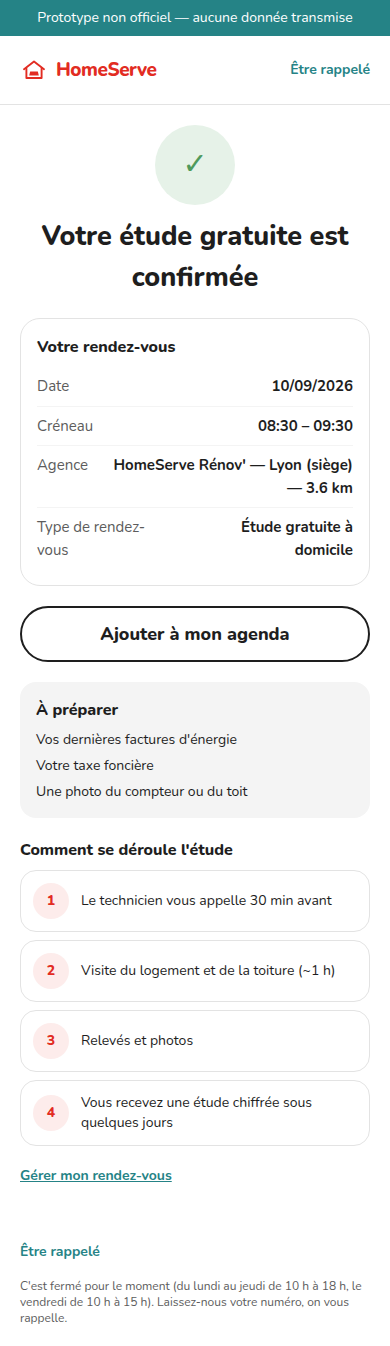
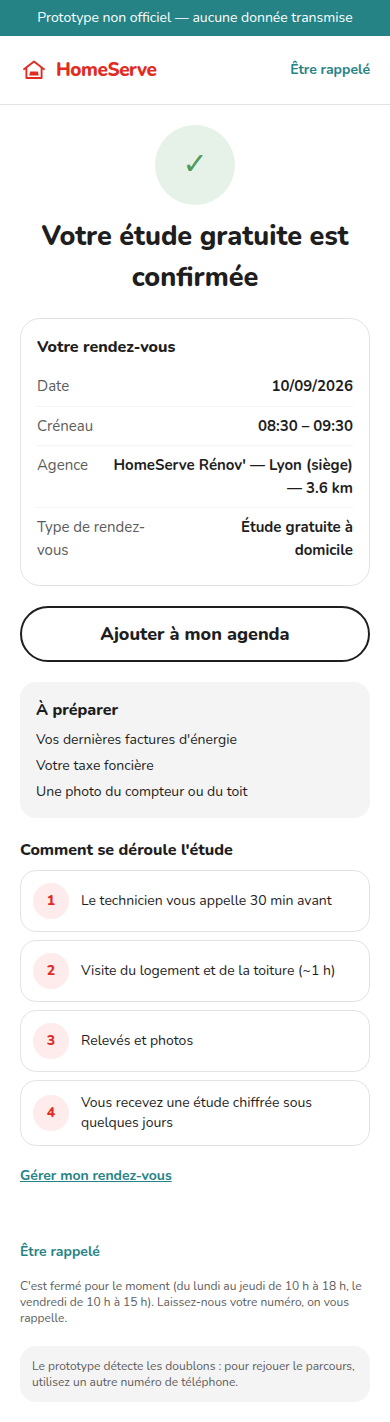
docs: section « Rejouer la démo » et mention du dédoublonnage
README : un seul tableau regroupe les drapeaux d'URL, les codes postaux, les
réponses qui déclenchent une règle, le téléphone de test et le code SMS, avec
ce que chacun produit. Un avertissement dit que le dédoublonnage (D32) bloque
un second parcours et comment le contourner.

Confirmation : la même mention en bas d'écran, là où le parcours vient de
s'achever — c'est le moment où l'on rejoue la démonstration.

Claude-Session: https://claude.ai/code/session_01NwWthX9S8Kxcjqkt96twac

diff --git a/test/rdv.test.tsx b/test/rdv.test.tsx
@@ -1,10 +1,12 @@
 import { fireEvent, render, screen } from "@testing-library/react";
 import { beforeEach, describe, expect, it, vi } from "vitest";
 
+import { Confirmation } from "@/components/Confirmation";
 import { EcranSortie } from "@/components/EcranSortie";
 import { MachineRdv } from "@/components/MachineRdv";
 import arbre from "@/data/arbre-rdv.json";
 import { contenu } from "@/lib/content";
+import { enregistrerRdv } from "@/lib/rdv";
 import { __reinitialiserPourTests, setReponse, setRdv } from "@/lib/store";
 
 const pousse = vi.fn();
@@ -171,5 +173,26 @@ describe("wording D42", () => {
     expect(contenu.rdv.confirmation.titre).toBe(
       "Votre étude gratuite est confirmée",
     );
+  });
+});
+
+describe("confirmation", () => {
+  it("prévient que le dédoublonnage bloque un second parcours", () => {
+    enregistrerRdv({
+      debutIso: "2026-09-15T08:30:00.000Z",
+      finIso: "2026-09-15T09:30:00.000Z",
+      agenceId: "LYON",
+      agenceNom: "Agence de Lyon",
+      distanceKm: 3.6,
+      telephone: "0600000009",
+      email: "camille@example.org",
+      typeRdv: contenu.rdv.confirmation.type_rdv,
+    });
+
+    render(<Confirmation />);
+
+    expect(
+      screen.getByText(contenu.rdv.confirmation.mention_doublon),
+    ).toBeDefined();
   });
 });

diff --git a/components/Confirmation.tsx b/components/Confirmation.tsx
@@ -137,6 +137,12 @@ export function Confirmation() {
       </Link>
 
       <BoutonAppel source="confirmation" step="/confirmation" avecMention />
+
+      {/* Le dédoublonnage (D32) surprend quiconque rejoue la démonstration :
+          on le dit ici, là où le parcours vient de s'achever. */}
+      <p className="rounded-card bg-neutre-100 p-3 text-xs text-neutre-500">
+        {confirmation.mention_doublon}
+      </p>
     </main>
   );
 }

diff --git a/README.md b/README.md
@@ -55,18 +55,28 @@ pnpm start          # sert le build standalone
 pnpm screenshots    # régénère docs/captures/ (nécessite un build)
 ```
 
-**Drapeaux d'URL, utiles en démonstration :**
+### Rejouer la démo
 
-| Drapeau | Effet |
-|---|---|
-| `?projet=solaire\|pac\|les_deux` | pré-répond A0 sur l'accueil et affiche la ligne de contexte |
-| `?variant=mur` | insère le mur de contact **avant** le résultat, qui n'est jamais affiché — le « avant » reproduit |
-| `?debug=1` | panneau d'événements |
+Tout ce qui déclenche une règle, au même endroit.
 
-**Codes postaux de démonstration :** `69002` (Lyon, agence à 3,6 km) ·
-`99999` (agence de test surbookée, règle D30) · `75001` (hors zone).
-**Téléphone de test :** `0600000001` (prospect déjà contacté, règle D29).
-**Code SMS de démonstration :** `4821`.
+| Entrée | Valeur | Ce qu'elle déclenche |
+|---|---|---|
+| Drapeau d'URL | `?projet=solaire\|pac\|les_deux` | change le gabarit de l'accueil (D54) et pré-répond A0 |
+| Drapeau d'URL | `?variant=mur` | insère le mur de contact **avant** le résultat, jamais affiché — le tunnel actuel |
+| Drapeau d'URL | `?debug=1` | panneau d'événements |
+| Code postal | `69002` | Lyon, agence à 3,6 km — parcours nominal |
+| Code postal | `99999` | agence de test surbookée → écran « forte demande » (D30/D57) |
+| Code postal | `75001` | hors zone → écran d'orientation, réservation toujours possible (D57) |
+| Facture | `< 60 €/mois` | règle `facture_faible` → écran « un point d'honnêteté » (D57) |
+| Surface | `< 70 m²` | règle `surface_faible`, en projet solaire |
+| Logement | résidence secondaire | règle `residence_secondaire` |
+| Téléphone | `0600000001` | prospect déjà contacté par le plateau (D29) |
+| Code SMS | `4821` | seul code accepté par l'OTP simulé |
+
+⚠ **Le prototype détecte les doublons** (D32) : un téléphone ou un email déjà
+utilisé renvoie sur l'écran « Vous avez déjà un rendez-vous ». Pour rejouer le
+parcours de bout en bout, changez de numéro de téléphone — ou videz le
+`localStorage` du navigateur.
 
 ⚠ Le routage part de la **préfecture du département** dans un rayon de 60 km :
 Nantes, Bordeaux, Rennes, Marseille et Strasbourg tombent hors zone. Pour un
